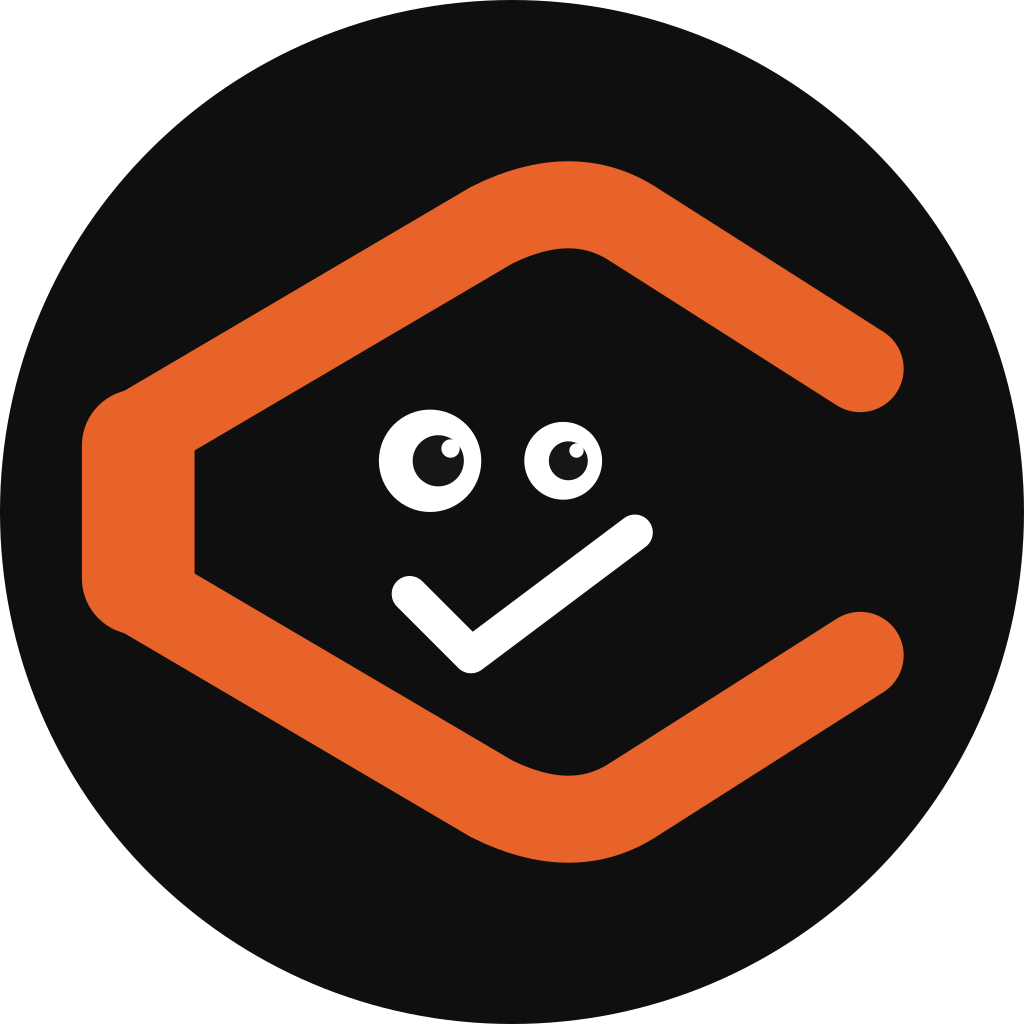
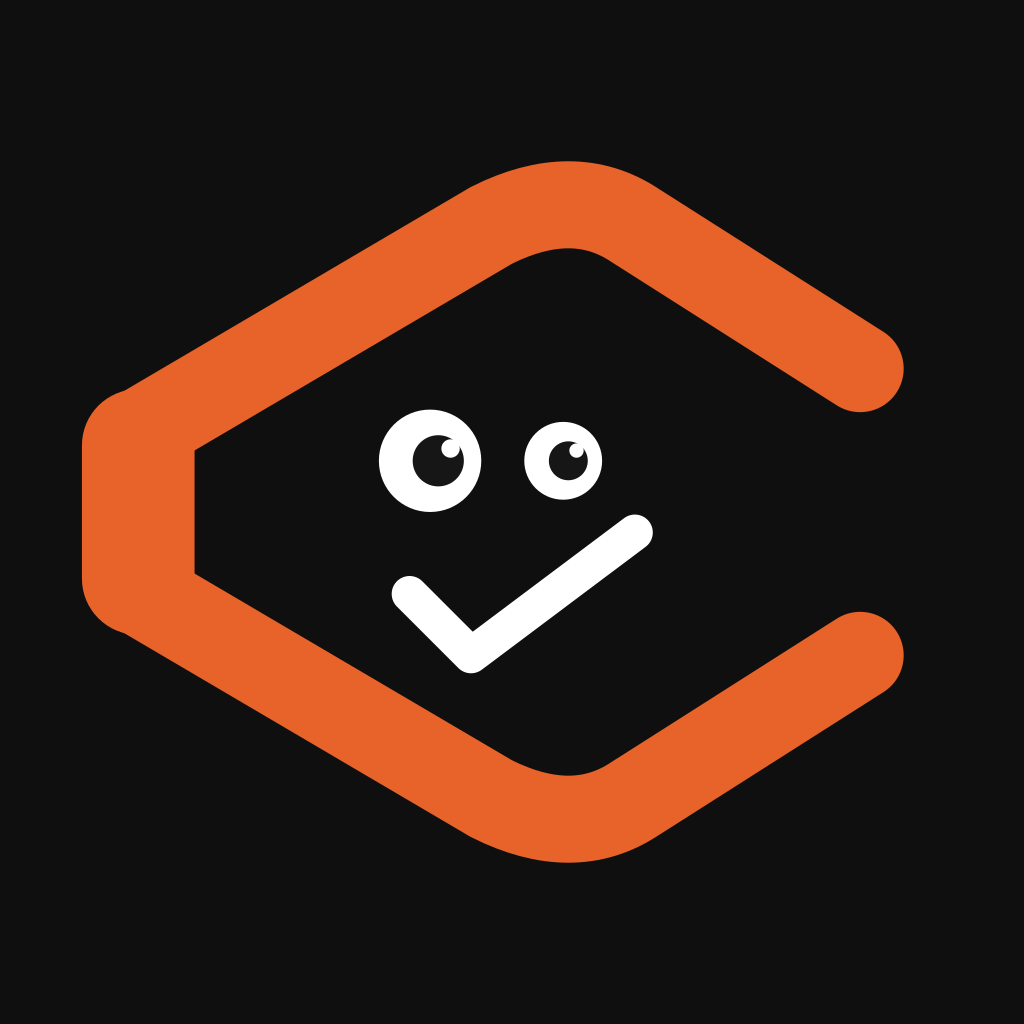
fix(bot): bootstrap welcome photo as caption + square coal frame
Photo now rides as the photo caption alongside the first agent reply
when both fit (Telegram caption limit 1024 chars), so image and text
land as a single message instead of two. Caller skips the consumed
part in its message loop; falls back to caption-less photo on overflow.

Re-render character-on-coal.png with a full-bleed coal rect (not a
clipped circle), so the square PNG no longer surrounds the mark with
transparent corners that read as white in light-mode chats.

diff --git a/crates/bot/src/telegram/bootstrap_photo.rs b/crates/bot/src/telegram/bootstrap_photo.rs
@@ -5,12 +5,15 @@
 //! correct regardless of which file inside the crate references this module.
 
 use teloxide::prelude::*;
-use teloxide::types::{InputFile, MessageId, ThreadId};
+use teloxide::types::{InputFile, MessageId, ReplyParameters, ThreadId};
 
 const WELCOME_PNG: &[u8] = include_bytes!(concat!(
     env!("CARGO_MANIFEST_DIR"),
     "/../../assets/character-on-coal.png"
 ));
+
+// Telegram caption hard limit; HTML tags count toward it.
+const CAPTION_LIMIT: usize = 1024;
 
 /// Pure predicate. The welcome photo goes out on the *first* CC invocation in
 /// a chat **only when** that invocation is happening in bootstrap mode.
@@ -18,27 +21,55 @@ fn should_send(bootstrap_mode: bool, first_turn_in_chat: bool) -> bool {
     bootstrap_mode && first_turn_in_chat
 }
 
-/// Send the welcome photo to `chat_id` (and the given thread, if any).
+/// Send the welcome photo, optionally attaching `caption_html` as the photo
+/// caption so image + first reply land as a single Telegram message.
 ///
-/// Fire-and-forget: errors are logged at WARN and do not propagate. The text
-/// reply is the contract; the photo is presentation.
+/// Returns `true` iff the photo was sent **with** the caption — in which case
+/// the caller must skip that text part in its own message loop. Returns
+/// `false` if the photo was skipped, sent without caption (caption too long
+/// or absent), or if the send failed. Errors are logged at WARN and never
+/// propagate; the text reply is the contract, the photo is presentation.
 pub(crate) async fn send_if_needed(
     bot: &super::BotType,
     chat_id: ChatId,
     eff_thread_id: i64,
     bootstrap_mode: bool,
     first_turn_in_chat: bool,
-) {
+    caption_html: Option<&str>,
+    reply_to: Option<i32>,
+) -> bool {
     if !should_send(bootstrap_mode, first_turn_in_chat) {
-        return;
+        return false;
     }
     let file = InputFile::memory(WELCOME_PNG).file_name("welcome.png");
     let mut req = bot.send_photo(chat_id, file);
+
+    let caption_attached = match caption_html {
+        Some(html) if html.chars().count() <= CAPTION_LIMIT => {
+            req = req
+                .caption(html.to_owned())
+                .parse_mode(teloxide::types::ParseMode::Html);
+            true
+        }
+        _ => false,
+    };
+
     if eff_thread_id != 0 {
         req = req.message_thread_id(ThreadId(MessageId(eff_thread_id as i32)));
     }
-    if let Err(e) = req.await {
-        tracing::warn!(%chat_id, eff_thread_id, "bootstrap welcome photo failed: {:#}", e);
+    if let Some(id) = reply_to {
+        req = req.reply_parameters(ReplyParameters {
+            message_id: MessageId(id),
+            ..Default::default()
+        });
+    }
+
+    match req.await {
+        Ok(_) => caption_attached,
+        Err(e) => {
+            tracing::warn!(%chat_id, eff_thread_id, "bootstrap welcome photo failed: {:#}", e);
+            false
+        }
     }
 }
 

diff --git a/crates/bot/src/telegram/worker.rs b/crates/bot/src/telegram/worker.rs
@@ -659,18 +659,6 @@ pub fn spawn_worker(
                         output.reply_to_message_id
                     };
 
-                    // Bootstrap welcome photo — first agent reply only, in
-                    // bootstrap mode only. Fire-and-forget: errors logged at
-                    // WARN, never block the text reply.
-                    super::bootstrap_photo::send_if_needed(
-                        &ctx.bot,
-                        tg_chat_id,
-                        eff_thread_id,
-                        bootstrap_mode,
-                        is_first_call,
-                    )
-                    .await;
-
                     if let Some(content) = output.content {
                         reply_text_for_retain = Some(content.clone());
                         let html = super::markdown::md_to_telegram_html(&content);
@@ -683,7 +671,24 @@ pub fn spawn_worker(
                             ?reply_to,
                             "sending reply to Telegram"
                         );
-                        for part in &parts {
+
+                        // Bootstrap welcome photo — first agent reply only, in
+                        // bootstrap mode only. When caption fits, the first text
+                        // part rides as the photo caption (single Telegram
+                        // message); we then skip it in the text loop below.
+                        let caption_consumed = super::bootstrap_photo::send_if_needed(
+                            &ctx.bot,
+                            tg_chat_id,
+                            eff_thread_id,
+                            bootstrap_mode,
+                            is_first_call,
+                            parts.first().map(|s| s.as_str()),
+                            reply_to,
+                        )
+                        .await;
+
+                        let start = if caption_consumed { 1 } else { 0 };
+                        for part in &parts[start..] {
                             let mut send = ctx.bot.send_message(tg_chat_id, part);
                             send = send.parse_mode(teloxide::types::ParseMode::Html);
                             if eff_thread_id != 0 {
